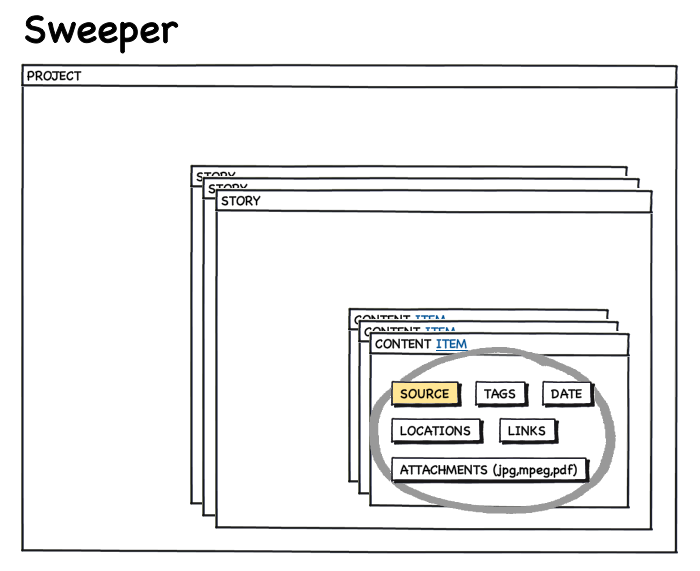
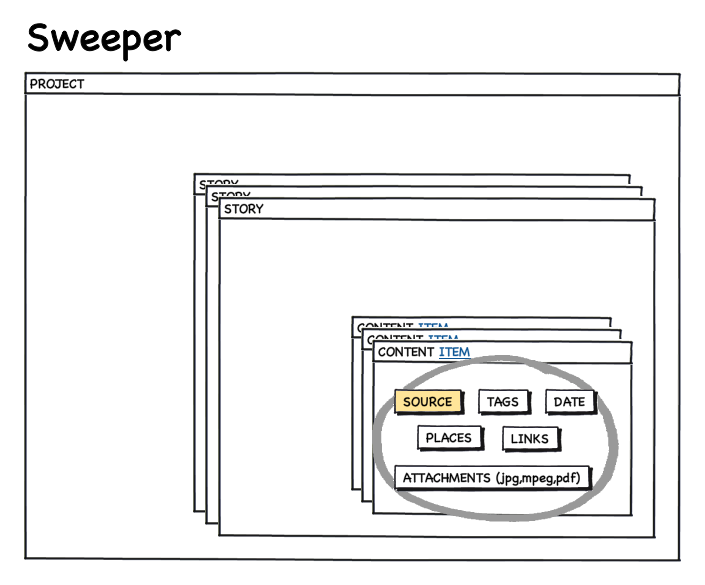
* README Update

Changed region(s): [[0.03, 0.0298, 0.99, 0.9825]]

diff --git a/README.md b/README.md
@@ -14,7 +14,7 @@ Sweeper is broken down into projects, stories and items. The application has a f
 * Sources
 * Tags
 * Dates
-* Locations and Places
+* Places
 * Links
 * Attachments (jpg,gif,png,pdf,mov etc..)
 
